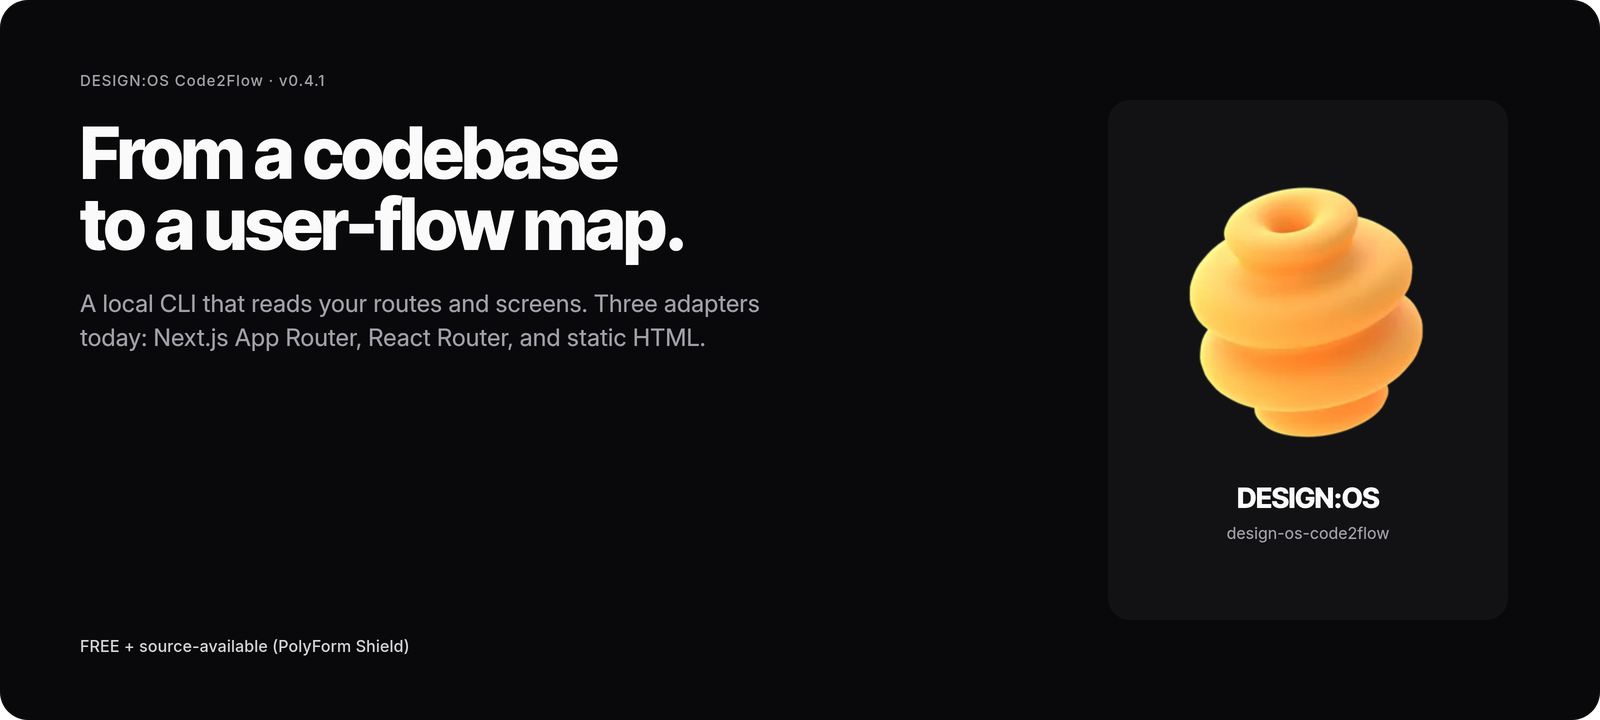
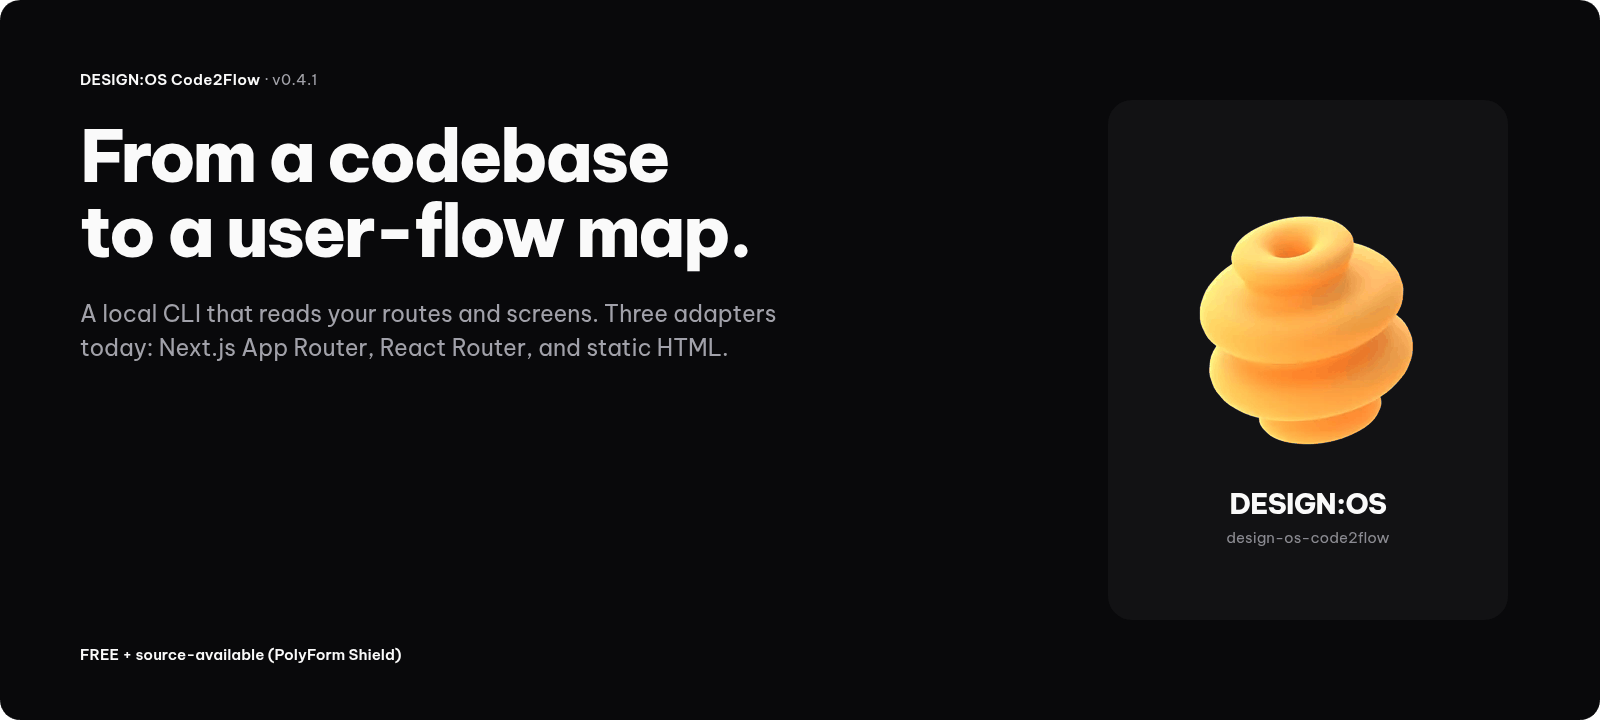
docs: re-render README assets in Be Vietnam Pro (#7)

diff --git a/docs/images/readme/PROVENANCE.md b/docs/images/readme/PROVENANCE.md
@@ -4,6 +4,6 @@
 `design-os-code2flow.webp` is the official hub mark from `/workspace/wt-hub/assets/logos/design-os-code2flow.webp`, copied as-is. Accent #fca849. The mark itself is not recoloured.
 
 ## Covers, flow diagrams, and social preview
-Family-matched cards, 1600×720 covers, 1600×1000 flow, 1280×640 social. Inter Tight and Inter. Dark #09090b, light #f4f4f5. Footer: FREE + source-available (PolyForm Shield).
+Family-matched cards, 1600×720 covers, 1600×1000 flow, 1280×640 social. Be Vietnam Pro (400, 600, 800), re-rendered on 2026-11-16 to match the DESIGN:OS family font. Dark #09090b, light #f4f4f5. Footer: FREE + source-available (PolyForm Shield).
 
 The README gallery reuses existing real captures already in `docs/assets/` (product-map, feature-inspect, stage-live, terminal-run.gif, and others).
